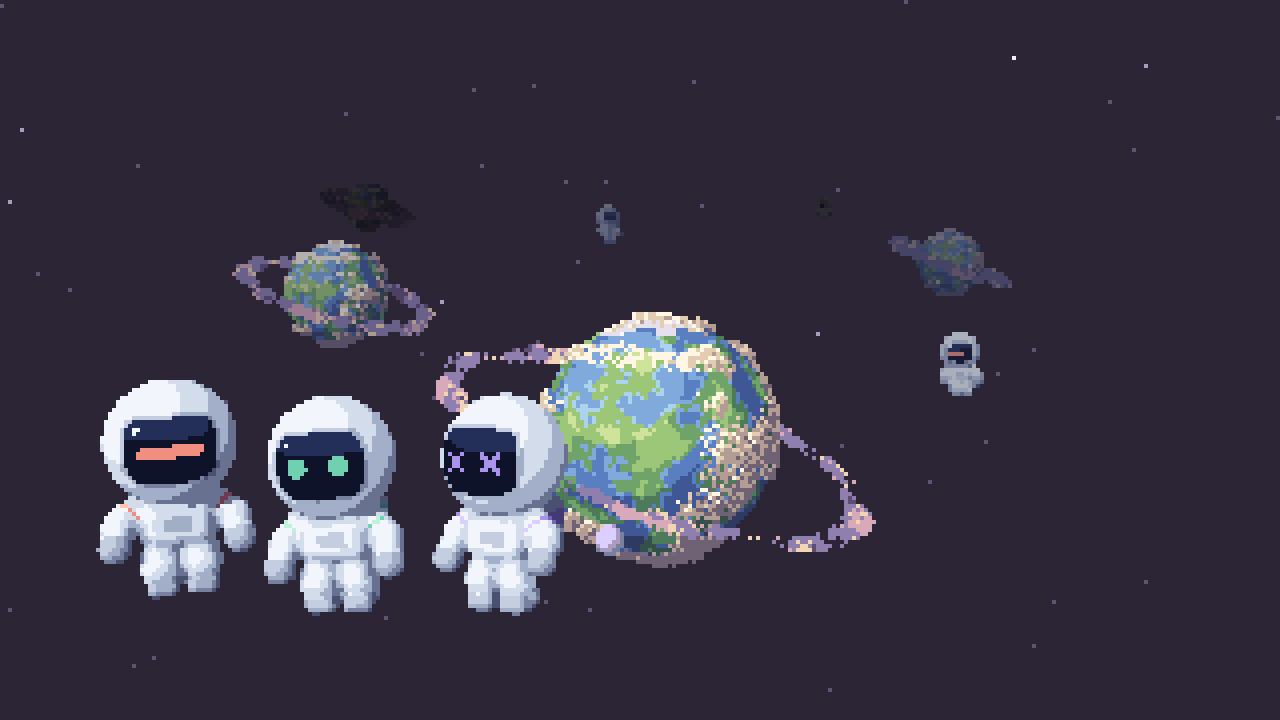
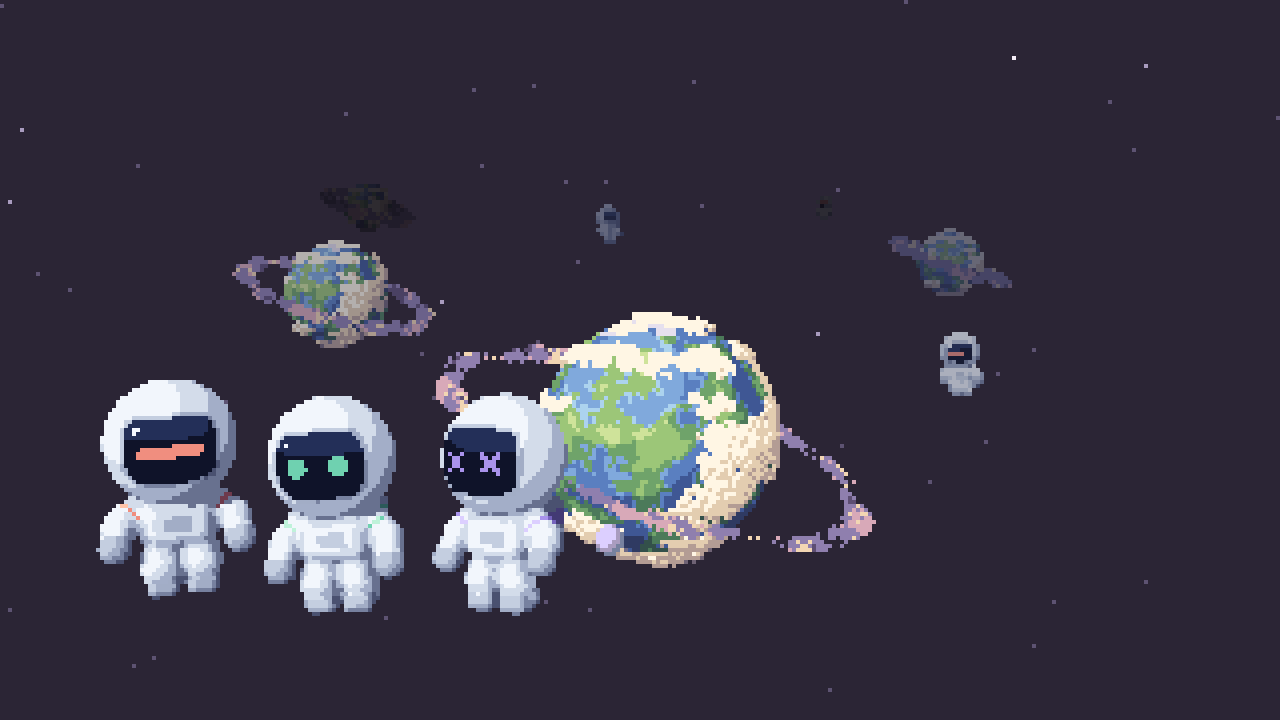
fix(mockup): solid cloud puffs (right-handed instance frames) + monotonic shading
put() built puff instances on a left-handed basis (north = d x east, b67f935), so
every instance had det < 0 and FrontSide culled each puff's outer shell: hollow
rings. Frames now come from cloud-frame.js tangentFrame (east x d = north, pole
fallback). Cloud shading uses the scalar blend of puff and radial Lambert terms
without renormalising, with the radial part that opposes the puff surface
dropped. Orbit minDistance keeps the camera out of the cloud layer in planet
views. Adds npm test (handedness unit + instance det checks, debugger repro
tests); HANDED_FIX control is a no-op on fixed source.

diff --git a/mockups/asset-viewer/viewer.js b/mockups/asset-viewer/viewer.js
@@ -8,6 +8,7 @@ import { EYE_DESIGNS, EYES_GLSL, eyesFor } from './faces.js';
 import { LOSPEC, LOSPEC_ORDER, SPARES } from './palettes.js';
 import { mapPalette, mapColors, snapToPool } from './palette-map.js';
 import { V2_PLANET_RAMPS, RESEARCH_RAMPS, PLANET_DEPTH } from './planet-ramps.js';
+import { tangentFrame } from './cloud-frame.js';
 
 THREE.ColorManagement.enabled = false; // palette hexes go to the screen untouched
 
@@ -224,7 +225,14 @@ const CLOUD_FRAG = /* glsl */ `
   in vec3 vNormalW;
   in vec3 vPosW;
   void main() {
-    vec3 n = normalize(normalize(vNormalW) * 0.55 + normalize(vPosW - uCenter) * 0.8);
+    // Scalar blend of the two Lambert terms: dot(n, L) = (0.55 N.L + 0.8 R.L) / 1.35, with
+    // N the puff normal and R the planet-radial direction. The vector is left unnormalised
+    // (renormalising it made shading run against the puff's curvature), and the part of R
+    // that opposes the puff surface is dropped, so undersides facing the planet stay shaded.
+    vec3 g = normalize(vNormalW), r = normalize(vPosW - uCenter);
+    float rg = dot(r, g);
+    if (rg < 0.0) r -= rg * g;
+    vec3 n = (g * 0.55 + r * 0.8) / 1.35;
     gl_FragColor = vec4(uRamp[band(n)], 1.0);
   }
 `;
@@ -599,8 +607,7 @@ function makePlanet() {
     const put = (dir, size, lift, flat = 0.6, stretch = 1) => {
       if (n >= MAX_PUFFS) return;
       const d = dir.clone().normalize();
-      const east = new THREE.Vector3().crossVectors(up, d).normalize();
-      const north = new THREE.Vector3().crossVectors(d, east);
+      const { east, north } = tangentFrame(THREE, d); // right-handed: det > 0, outer shell stays front-facing
       m4.makeBasis(east.multiplyScalar(size * stretch), d.clone().multiplyScalar(size * flat), north.multiplyScalar(size));
       m4.setPosition(d.multiplyScalar(1 + size * flat * lift));
       puffs.setMatrixAt(n++, m4);
@@ -609,8 +616,7 @@ function makePlanet() {
     // a lead puff plus smaller satellites beside it.
     const clump = (center, size, lift, satellites, flat, stretch) => {
       put(center, size, lift, flat, stretch);
-      const east = new THREE.Vector3().crossVectors(up, center).normalize();
-      const north = new THREE.Vector3().crossVectors(center, east);
+      const { east, north } = tangentFrame(THREE, center.clone().normalize());
       for (let k = 0; k < satellites; k++) {
         const ang = rnd() * Math.PI * 2;
         const off = size * (0.9 + rnd() * 0.5);
@@ -1082,8 +1088,12 @@ const state = {
   time: null, ui: true, palette: 'final', eyes: 'auto', period: 12, moons: true, halo: false,
 };
 
+// Keep the orbit camera out of the cloud layer in planet views (clouds reach ~1.1 R).
+const minOrbit = () => ((VIEWS[state.view]?.scene ?? 'showcase') === 'solo' ? 1.35 * state.size : 0.5);
+
 function applyView(name) {
   const v = VIEWS[name];
+  controls.minDistance = minOrbit();
   camera.position.set(...v.pos);
   controls.target.set(...v.target);
   controls.update();
@@ -1107,6 +1117,7 @@ function applyState() {
   LOOP.period = Math.max(1, state.period);
   planets.forEach((p, i) => p.setExtras({ moons: i === 0 && state.moons, halo: state.halo }));
   SYSTEM.forEach((p, i) => p.setExtras({ moons: i === 0 && state.moons, halo: state.halo }));
+  controls.minDistance = minOrbit();
   planets.forEach((p) => {
     p.rebuild(state.seed, state.biome, state.ringMode);
     p.group.scale.setScalar(state.size);

diff --git a/mockups/asset-viewer/cloud-frame.js b/mockups/asset-viewer/cloud-frame.js
@@ -1,0 +1,13 @@
+// Tangent frame for a cloud puff sitting on the unit sphere at direction `d`.
+// Returns a RIGHT-HANDED basis (east, d, north) with east x d = north, so a puff
+// instance matrix built from it has a positive determinant. three.js only flips
+// triangle winding for a mirrored *mesh* matrixWorld, never per instance, so a
+// left-handed instance gets its outer shell back-face culled and reads as a hollow
+// ring (the b67f935 bug). At the poles up x d vanishes; fall back to the x axis.
+export function tangentFrame(THREE, d) {
+  const east = new THREE.Vector3(-d.z, 0, d.x); // = up x d for up = (0, 1, 0)
+  if (east.lengthSq() < 1e-10) east.set(1, 0, 0); // pole: any horizontal axis
+  east.normalize();
+  const north = new THREE.Vector3().crossVectors(east, d).normalize();
+  return { east, north };
+}

diff --git a/mockups/asset-viewer/README.md b/mockups/asset-viewer/README.md
@@ -12,6 +12,7 @@ npm run dev      # http://127.0.0.1:5180/  (loopback only; PORT=... to change)
 npm run shots    # re-capture screenshots/ in headless Chromium (no server, no network)
 npm run palettes # 25 Lospec-palette renders + labelled contact sheet in screenshots/palettes/
 npm run planets  # variety sheet, system shot, hero-loop.gif, colour counts + loop-seam test
+npm test         # cloud regression tests: puff handedness (det > 0) + hollow-ring and shading render tests
 ```
 
 `node shots.mjs depth-scene crew-closeup` captures just the named shots.
@@ -42,7 +43,7 @@ npm run planets  # variety sheet, system shot, hero-loop.gif, colour counts + lo
 - **Pixels**: the WebGL canvas *is* the internal resolution (320×180 by default, `antialias: false`). CSS scales it by an integer with `image-rendering: pixelated`. There's no post pass, because every shader already outputs exact palette colours. There's no dithering and no outline.
 - **Shading**: toon bands. `dot(normal, light)` picks one of four ramp entries, so each surface is made of flat colour bands. The key light comes from the top left, about 40° off the default view, which gives Planetarium's concentric crescents.
 - **Planet**: a sphere whose shader uses 3D simplex fbm for land and ocean, with shallow-water and highland steps and noisy polar caps.
-- **Clouds**: instanced icosphere puffs squashed to 60% along the radial axis, so they hug the surface. Placement is noise-driven, like Planetarium. A low-frequency fbm field makes a few large merged masses, and a latitude-stretched field makes long east-west streaks. Wherever both fields are low the sky stays clear. Denser spots get bigger, higher puffs, so cores merge and dome past the silhouette, and a few small strays scatter at the edges of the weather. Every puff gets at least one smaller satellite beside it, and thin weather and strays get 2–3, so no lone sphere reads as a white ball. Each puff's normal is blended with the planet's radial direction, so a mass shades as one body with a lumpy edge. The clouds spin slightly faster than the ground.
+- **Clouds**: each puff instance is built on a right-handed tangent frame (`cloud-frame.js`, det > 0, with a pole fallback). A mirrored instance gets back-face culled into a hollow ring; `npm test` guards this. Shading is a scalar blend of the puff and planet-radial Lambert terms. Instanced icosphere puffs squashed to 60% along the radial axis, so they hug the surface. Placement is noise-driven, like Planetarium. A low-frequency fbm field makes a few large merged masses, and a latitude-stretched field makes long east-west streaks. Wherever both fields are low the sky stays clear. Denser spots get bigger, higher puffs, so cores merge and dome past the silhouette, and a few small strays scatter at the edges of the weather. Every puff gets at least one smaller satellite beside it, and thin weather and strays get 2–3, so no lone sphere reads as a white ball. Each puff's normal is blended with the planet's radial direction, so a mass shades as one body with a lumpy edge. The clouds spin slightly faster than the ground.
 - **Ring**: one thin band of 1,500 points, densest in the middle. Every dot is exactly 1 internal pixel at every resolution. Points in the planet's shadow use the darkest ring colour.
 - **Astronaut**: one signed-distance body, raymarched inside a proxy box and composited with `gl_FragDepth`. It's made from primitives in chibi proportions: a helmet sphere (about the top 55%), a short torso, a rounded-box torso, a backpack wider than the torso, mitts and boots. Each arm and leg is one continuous bent tube (shoulder→elbow→wrist, hip→knee→ankle), smooth-unioned so the bend has no seam. Elbows and knees are softly bent, and they flex with the idle bob. Because it is one surface, one lighting pass shades the whole body. Cast shadows (arm on torso, helmet on shoulders) and contact occlusion come from marching the same field toward the light, then snapping to the 4-step suit ramp. The suit is a cool white. The visor is a ~4:3 rounded-rect "screen" (a superellipse in yaw and pitch) with a gear-tone bezel, in two near-black blue tones plus a fixed 3 px monitor-style glint in the screen's top-left corner, clear of the face. **Contributor colour** is on the backpack stripe and a band around each upper arm (shoulder bands), so it's readable from any angle.
 - **Faces** (`faces.js`): the ApprenticeHack Avatar V2 eye designs, eyes only. There are 10: dots, cyclops, visor slit, binocular, three eyes, happy, LED bar, heartbeat, slant and X eyes. They are evaluated **analytically per fragment** as 2D SDFs in visor-screen space (`EYES_GLSL`, inside the astronaut shader), so they are resolution-independent: the normal internal-resolution render pixelates them like the rest of the model. Geometry follows `js/avatar-v2.js`: `s` is a 32×24 screen box and `e = min(s.h, s.w*0.5)*1.12`, with the same offsets, radii and round-cap strokes. Eyes are centred on the 4:3 screen and glow, unlit, in the contributor colour; pupils (cyclops, binocular) cut back to the visor colour. One deviation: `happy` uses a thinner stroke (e*0.11) than the source. The design comes from ApprenticeHack's `hashStr(handle + 'e')`: `@caden` gets visor slit, `@mira` gets dots and `@juno` gets X eyes. Each astronaut blinks every ~4.3 s with a quick, staggered Y-squash (`uBlink`). A small fixed glint sits in the screen's top-left corner, clear of the eyes.
